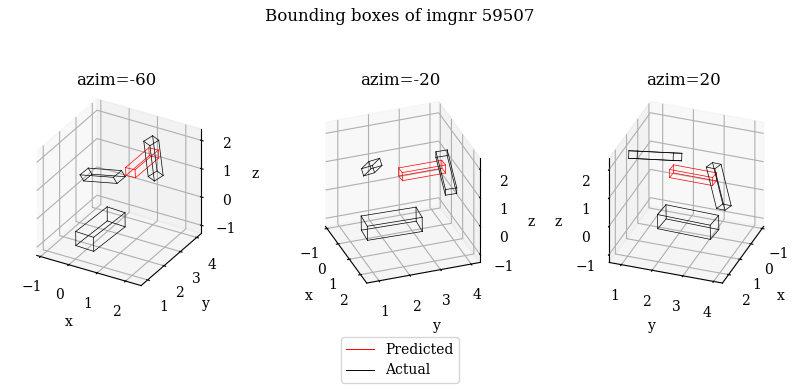
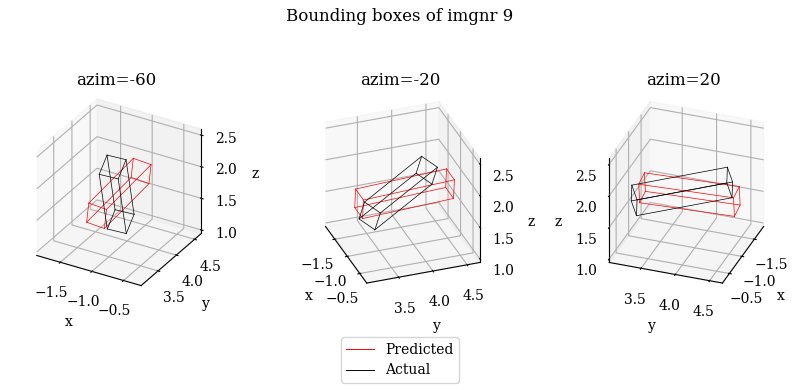
commiot

diff --git a/volume/calc.py b/volume/calc.py
@@ -1,18 +1,12 @@
-from itertools import combinations
-from typing_extensions import final
 import numpy as np
-from numpy.core.fromnumeric import sort 
 import pandas as pd 
 from ioulib import Box, iou, plot_box, get_mesh_from_box
 from matplotlib import pyplot as plt 
 from typing import Iterable, Optional, Sequence, Tuple, List, Union
-from copy import copy
 import pymesh
-from matplotlib.ticker import NullFormatter
 plt.rcParams.update({'font.family': 'serif', 'mathtext.fontset':'dejavuserif'})
 from debug import debug, debugs, debugt
 from tqdm import tqdm
-from multiprocessing import Pool
 import matplotlib.lines as mlines
 
 
@@ -70,7 +64,7 @@ def set_axes_equal(ax):
     ax.set_zlim3d([z_middle - plot_radius, z_middle + plot_radius])
 
 
-def plot_boxes(df_outputs, df_labels, imgnr):
+def plot_boxes(df_outputs, df_labels, imgnr, figname: Optional[str] = None, whole: bool=False):
     outputs = get_meshes_from_df(df_outputs.query("imgnr==@imgnr"))
     labels = get_meshes_from_df(df_labels.query("imgnr==@imgnr"))
     
@@ -78,6 +72,12 @@ def plot_boxes(df_outputs, df_labels, imgnr):
     ax1 = fig.add_subplot(1,3,1,projection='3d')
     ax2 = fig.add_subplot(1,3,2,projection='3d')
     ax3 = fig.add_subplot(1,3,3,projection='3d')
+
+    if whole:
+        # -4, 4 is spawnbox dims
+        ax1.set(xlim=[-4,4],ylim=[-4,4],zlim=[-4,4])
+        ax2.set(xlim=[-4,4],ylim=[-4,4],zlim=[-4,4])
+        ax3.set(xlim=[-4,4],ylim=[-4,4],zlim=[-4,4])
 
     for ax, azim in zip((ax1, ax2, ax3), (0,40,80)):
         for box in outputs:
@@ -102,7 +102,19 @@ def plot_boxes(df_outputs, df_labels, imgnr):
         mlines.Line2D([],[],color='red', linewidth=0.69, label='Predicted'),
         mlines.Line2D([],[],color='k', linewidth=0.69, label='Actual'),
     ], loc='lower center')
-    plt.savefig('boxviz.png')
+
+    if figname is not None:
+        plt.savefig(figname)
+        plt.close()
+    return fig, (ax1, ax2, ax3)
+
+
+def plot_imgnrs(df_outputs, df_labels, imgnrs):
+    for imgnr in imgnrs:
+        fig, _ = plot_boxes(df_outputs, df_labels, imgnr, whole=True)
+        fig.savefig(f"plots/nogit_imgnr{imgnr}_viz_far.png")
+        fig.savefig(f"plots/nogit_imgnr{imgnr}_viz_far.pdf")
+        plt.close()
 
 
 def nms(
@@ -139,11 +151,16 @@ def nms_from_df(df_outputs: pd.DataFrame, imgnr: int, threshold: float=0.5):
 
 if __name__ == '__main__':
     mapdir = '/mnt/deepvol/mapdir/'
-    df_outputs = pd.read_csv(mapdir+'nogit_output_alt.csv')
+    df_outputs = pd.read_csv(mapdir+'nogit_output_regular.csv')
     df_labels = pd.read_csv(mapdir+'nogit_val_labels.csv')
 
-    import time
-    for i in range(100):
-        plot_boxes(df_outputs, df_labels, 59500+i)
-        plt.close()
-        time.sleep(1)
+    # 420 6 9 
+    # plot_boxes(df_outputs, df_labels, 9)
+    plot_imgnrs(df_outputs, df_labels, [420, 6, 9])
+    
+
+    # import time
+    # for i in range(100):
+    #     plot_boxes(df_outputs, df_labels, 59500+i)
+    #     plt.close()
+    #     time.sleep(1)

diff --git a/volume/coco.py b/volume/coco.py
@@ -261,7 +261,9 @@ class COCO:
         annsImgIds = [ann['image_id'] for ann in anns]
         # assert set(annsImgIds) == (set(annsImgIds) & set(self.getImgIds())), \
         #        'Results do not correspond to current coco set'
-        if 'caption' in anns[0]:
+        if len(anns) == 0:
+            pass
+        elif 'caption' in anns[0]:
             imgIds = set([img['id'] for img in res.dataset['images']]) & set([ann['image_id'] for ann in anns])
             res.dataset['images'] = [img for img in res.dataset['images'] if img['id'] in imgIds]
             for id, ann in enumerate(anns):
